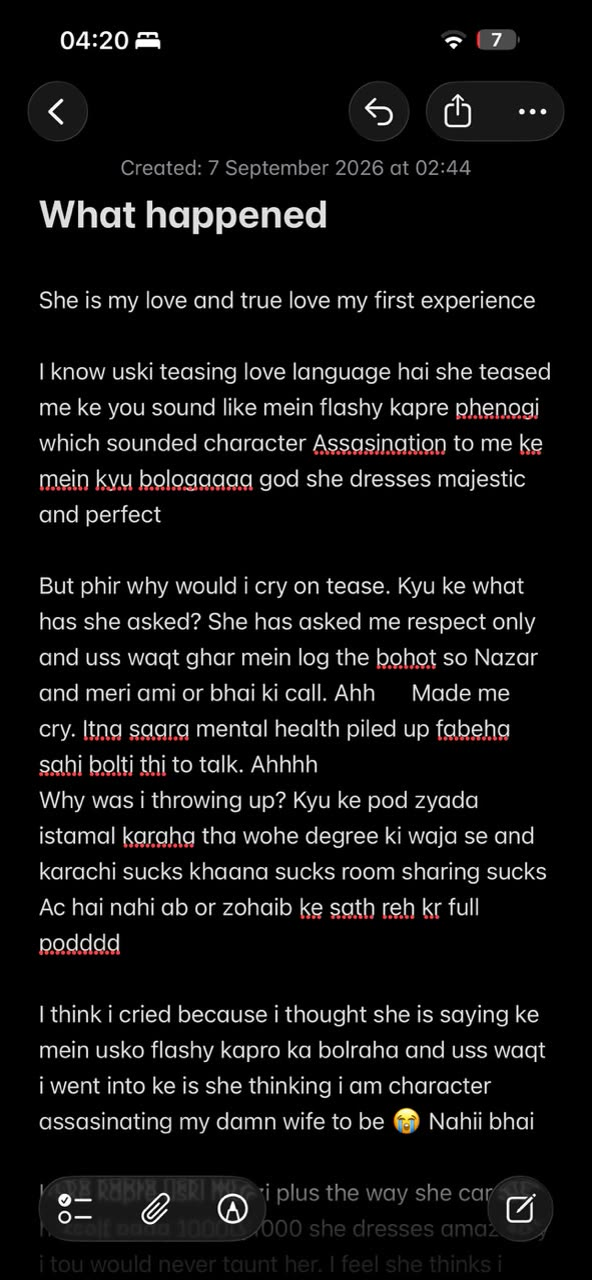
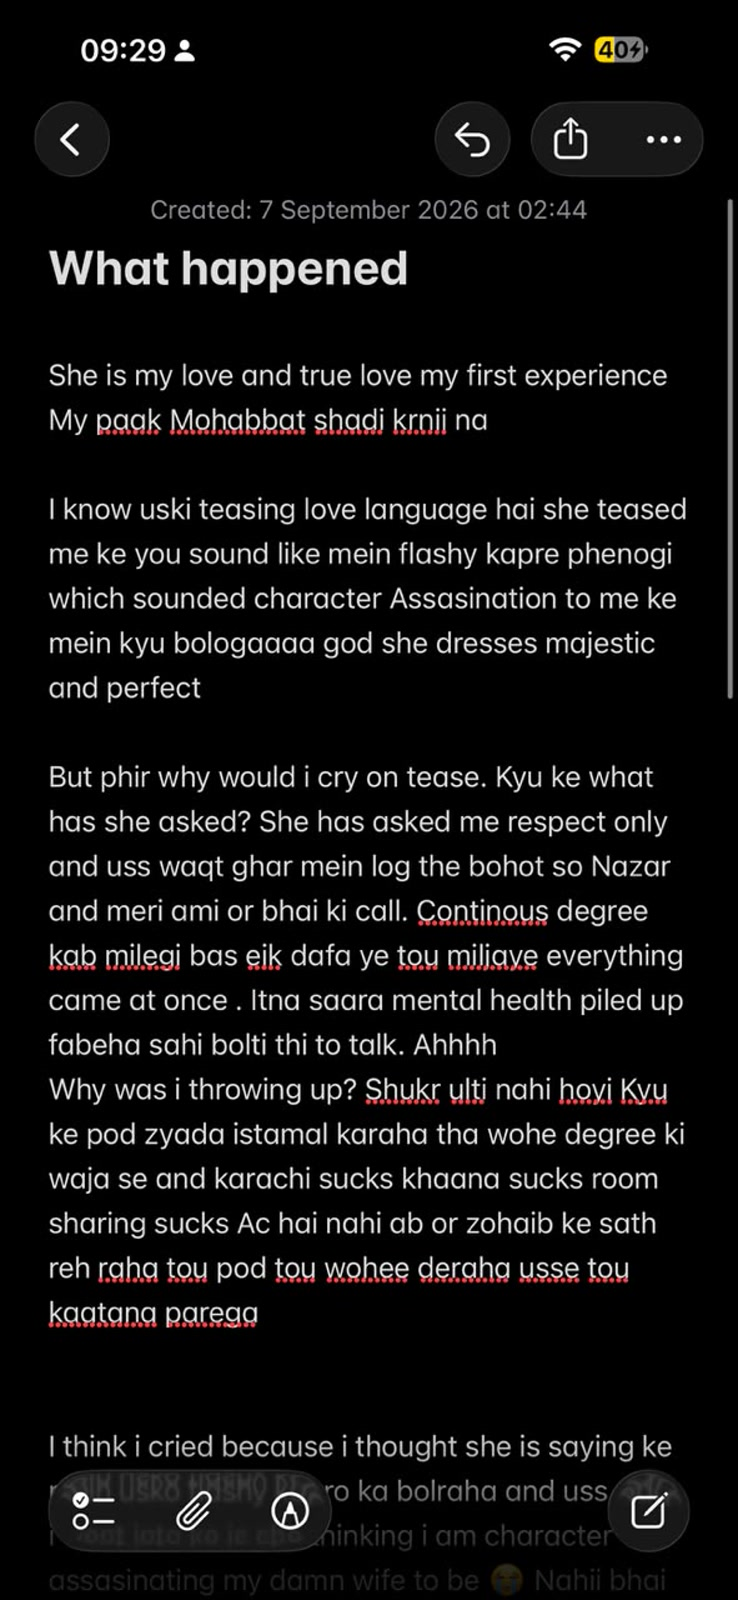
What happened: the way I sounded, accountability, the fire; the new note screenshots

diff --git a/sep3.js b/sep3.js
@@ -89,17 +89,17 @@ function s3_seedOf(o){return o.seed||907;}
    ================================================================================================ */
 /* the lines he holds big across a black frame (also narration); the third is one screen in three parts, the part she told him larger */
 const S3_WH_BIG=[
-  {at:25.4,until:32.2,text:'The very thing you hated me for was the very thing I hated in myself, us waqt.',size:60,y:318},
-  {at:32.6,until:40.8,text:'And for this, the only witness that matters to me is my Hajj. And mera ALLAH, jisne mujhe bulaya tha.',size:56,y:318},
+  {at:49.4,until:56.2,text:'The very thing you hated me for was the very thing I hated in myself, us waqt.',size:60,y:318},
+  {at:56.6,until:64.8,text:'And for this, the only witness that matters to me is my Hajj. And mera ALLAH, jisne mujhe bulaya tha.',size:56,y:318},
 ];
 const S3_WH_NOTES=[
-  {at:48.5,text:'I even have notes.',size:46,y:176},
-  {at:51.9,text:'You told me: write it down thirty minutes before sleeping.',size:66,y:322},
-  {at:55.9,text:'I am glad this is what I did.',size:46,y:472},
+  {at:72.5,text:'I even have notes.',size:46,y:176},
+  {at:75.9,text:'You told me: write it down thirty minutes before sleeping.',size:66,y:322},
+  {at:79.9,text:'I am glad this is what I did.',size:46,y:472},
 ];
 /* the black screens: the two big lines (a 0.4 s dip in at 25.0, a 1 s fade back to the room at 40.8), the notes screen (dip at 48.0, stays black into the photos at 59.8) */
-const S3_WH_T={dip1:25.0,up1:40.8,dip2:48.0,notes:59.8,photo:[[60.6,66.0],[66.0,71.4],[71.4,99]]};
-scene({id:'whathappened',name:'What happened that day',when:'2026-09-06T23:45',bars:23,fin:['#000000',1.4],fout:['#000000',1.6],
+const S3_WH_T={dip1:49.0,up1:64.8,dip2:72.0,notes:83.8,photo:[[84.6,90.0],[90.0,95.4],[95.4,123]]};
+scene({id:'whathappened',name:'What happened that day',when:'2026-09-06T23:45',bars:31,fin:['#000000',1.4],fout:['#000000',1.6],
   note:'the same dark room, later. Fabeha large in the frame and lit softly, listening, a small frown that softens while he tells her what the tease did to him; three of his lines held big across a black frame — the one about the Hajj, and the notes she told him to write, her part of it larger; then the three screenshots of his own note, “What happened”, written at 02:44 on 7 September, lifted into the frame one after another.',
   tag:'“What happened” · 7 September 2026, 02:44',
   prep(){return{room:s3_room(),vig:s3_vignette(),notes:[s3_img('note1.jpg'),s3_img('note2.jpg'),s3_img('note3.jpg')]};},
@@ -110,7 +110,7 @@ scene({id:'whathappened',name:'What happened that day',when:'2026-09-06T23:45',b
     /* the room and her: the same pool of light as the call, the door light lower now; her frown softens while he speaks */
     ctx.drawImage(A.room,0,0);
     s3_doorLight(ctx,lt,0.6*(1-dark));
-    const soft=smooth(8,42,lt);
+    const soft=smooth(8,66,lt);
     s3_her(ctx,lt,A,{light:1-0.85*dark,look:0.05*Math.sin(lt*0.5),smile:lerp(0.1,0.3,soft),brow:lerp(-0.4,0.12,soft),tilt:0.03*Math.sin(lt*0.37)+0.02,seed:907});
     if(dark>0){ctx.fillStyle=`rgba(3,3,7,${(0.96*dark).toFixed(3)})`;ctx.fillRect(0,0,W,H);}
     for(const b of S3_WH_BIG)s3_big(ctx,b.text,smooth(b.at,b.at+0.8,lt)*(1-smooth(b.until-0.6,b.until,lt)),{y:b.y,size:b.size,maxW:1000});
@@ -128,27 +128,32 @@ scene({id:'whathappened',name:'What happened that day',when:'2026-09-06T23:45',b
   },
   subs:[
     [0.8,7.0,'What happened that day. You teased me, with your love language: you sound like mein flashy kapre phenogi.'],
-    [7.4,13.7,'And that sentence. I hated that Fazul. No one has the right to say flashy kapre phenogi to you.'],
-    [14.0,20.8,'And I started crying, because: mein aise kaise bologa, bro? The very Fazul you hate is the Fazul I hated.'],
-    [21.2,24.6,'Please know: your four things, I had memorised them.'],
-    [25.6,31.6,'The very thing you hated me for was the very thing I hated in myself, us waqt.'],
-    [32.8,40.2,'And for this, the only witness that matters to me is my Hajj. And mera ALLAH, jisne mujhe bulaya tha.'],
-    [42.4,47.6,'That day I never commented on your clothes. I cried because I cannot character-assassinate you.'],
-    [48.6,51.6,'I even have notes.'],
-    [52.0,55.6,'You told me: write it down thirty minutes before sleeping.'],
-    [56.0,59.2,'I am glad this is what I did.'],
+    [7.4,13.7,'And that sentence. I hated the way I sounded. No one has the right to say flashy kapre phenogi to you.'],
+    [14.0,20.8,'And I started crying, because: mein aise kaise bologa, bro? The very Fazul you hate is the very thing, when you said I sounded like it, that I hated.'],
+    [21.2,27.4,'I know my mistakes, and I am accountable for them. I should not have gone outside the emotional safety.'],
+    [27.8,34.6,'But all of it came at once, kyun ke this very thing I hated so much: kyun ke you went through trauma for two years, and I knew that.'],
+    [35.0,39.0,'And I can never sound like that!'],
+    [39.4,44.4,'And when you thought I did, something broke in me. Like someone had put me into fire.'],
+    [45.2,48.6,'Please know: your four things, I had memorised them.'],
+    [49.6,55.6,'The very thing you hated me for was the very thing I hated in myself, us waqt.'],
+    [56.8,64.2,'And for this, the only witness that matters to me is my Hajj. And mera ALLAH, jisne mujhe bulaya tha.'],
+    [66.4,71.6,'That day I never commented on your clothes. I cried because I cannot character-assassinate you.'],
+    [72.6,75.6,'I even have notes.'],
+    [76.0,79.6,'You told me: write it down thirty minutes before sleeping.'],
+    [80.0,83.2,'I am glad this is what I did.'],
   ],
   score({add,T,pad}){
     /* one piano line, carried on from the chat; the pads barely there, lower still under the black screens */
     const line=(bar,seq,vel)=>{let beat=0;for(const[m,d]of seq){if(m)add(T(bar,beat),'piano',{midi:m,dur:d*BEAT*1.6,vel});beat+=d;}};
     const ch=['Em','Cmaj7','G','Dsus','Em7','Am7','Cadd9','Dsus'];
-    const quiet=b=>(b>=7&&b<13)||b>=14;
-    for(let b=0;b<23;b++)pad(T(b),quiet(b)?(b%2?'Em7':'Em'):ch[b%8],1.05,quiet(b)?0.1:0.13,'pad');
+    const quiet=b=>(b>=15&&b<20)||b>=21;
+    for(let b=0;b<31;b++)pad(T(b),quiet(b)?(b%2?'Em7':'Em'):ch[b%8],1.05,quiet(b)?0.1:0.13,'pad');
     line(0,[[64,2],[67,1],[71,1]],0.3);line(1,[[69,3],[67,1]],0.28);line(2,[[64,2],[62,1],[64,1]],0.28);line(3,[[59,4]],0.26);
     line(4,[[67,2],[64,1],[62,1]],0.28);line(5,[[64,3],[0,1]],0.26);line(6,[[71,2],[69,1],[67,1]],0.28);line(7,[[64,4]],0.24);
     line(8,[[0,1],[52,3]],0.22);line(9,[[55,2],[59,2]],0.22);line(10,[[52,4]],0.2);line(11,[[0,2],[59,2]],0.2);line(12,[[62,2],[64,2]],0.22);
     line(13,[[67,2],[71,1],[69,1]],0.3);line(14,[[64,3],[0,1]],0.26);line(15,[[0,2],[59,2]],0.2);line(16,[[64,4]],0.2);line(17,[[62,2],[0,1],[64,1]],0.2);
     line(18,[[59,4]],0.18);line(19,[[64,2],[67,1],[71,1]],0.22);line(20,[[69,3],[67,1]],0.2);line(21,[[64,2],[62,1],[64,1]],0.2);line(22,[[59,4]],0.18);
+    line(23,[[0,1],[52,3]],0.2);line(24,[[55,2],[59,2]],0.2);line(25,[[52,4]],0.18);line(26,[[0,2],[59,2]],0.18);line(27,[[62,2],[64,2]],0.2);line(28,[[59,4]],0.18);line(29,[[64,2],[62,1],[64,1]],0.18);line(30,[[59,4]],0.16);
   },
   amb(lt){return{room:lt<S3_WH_T.notes?0.22:0.16};},
 });
